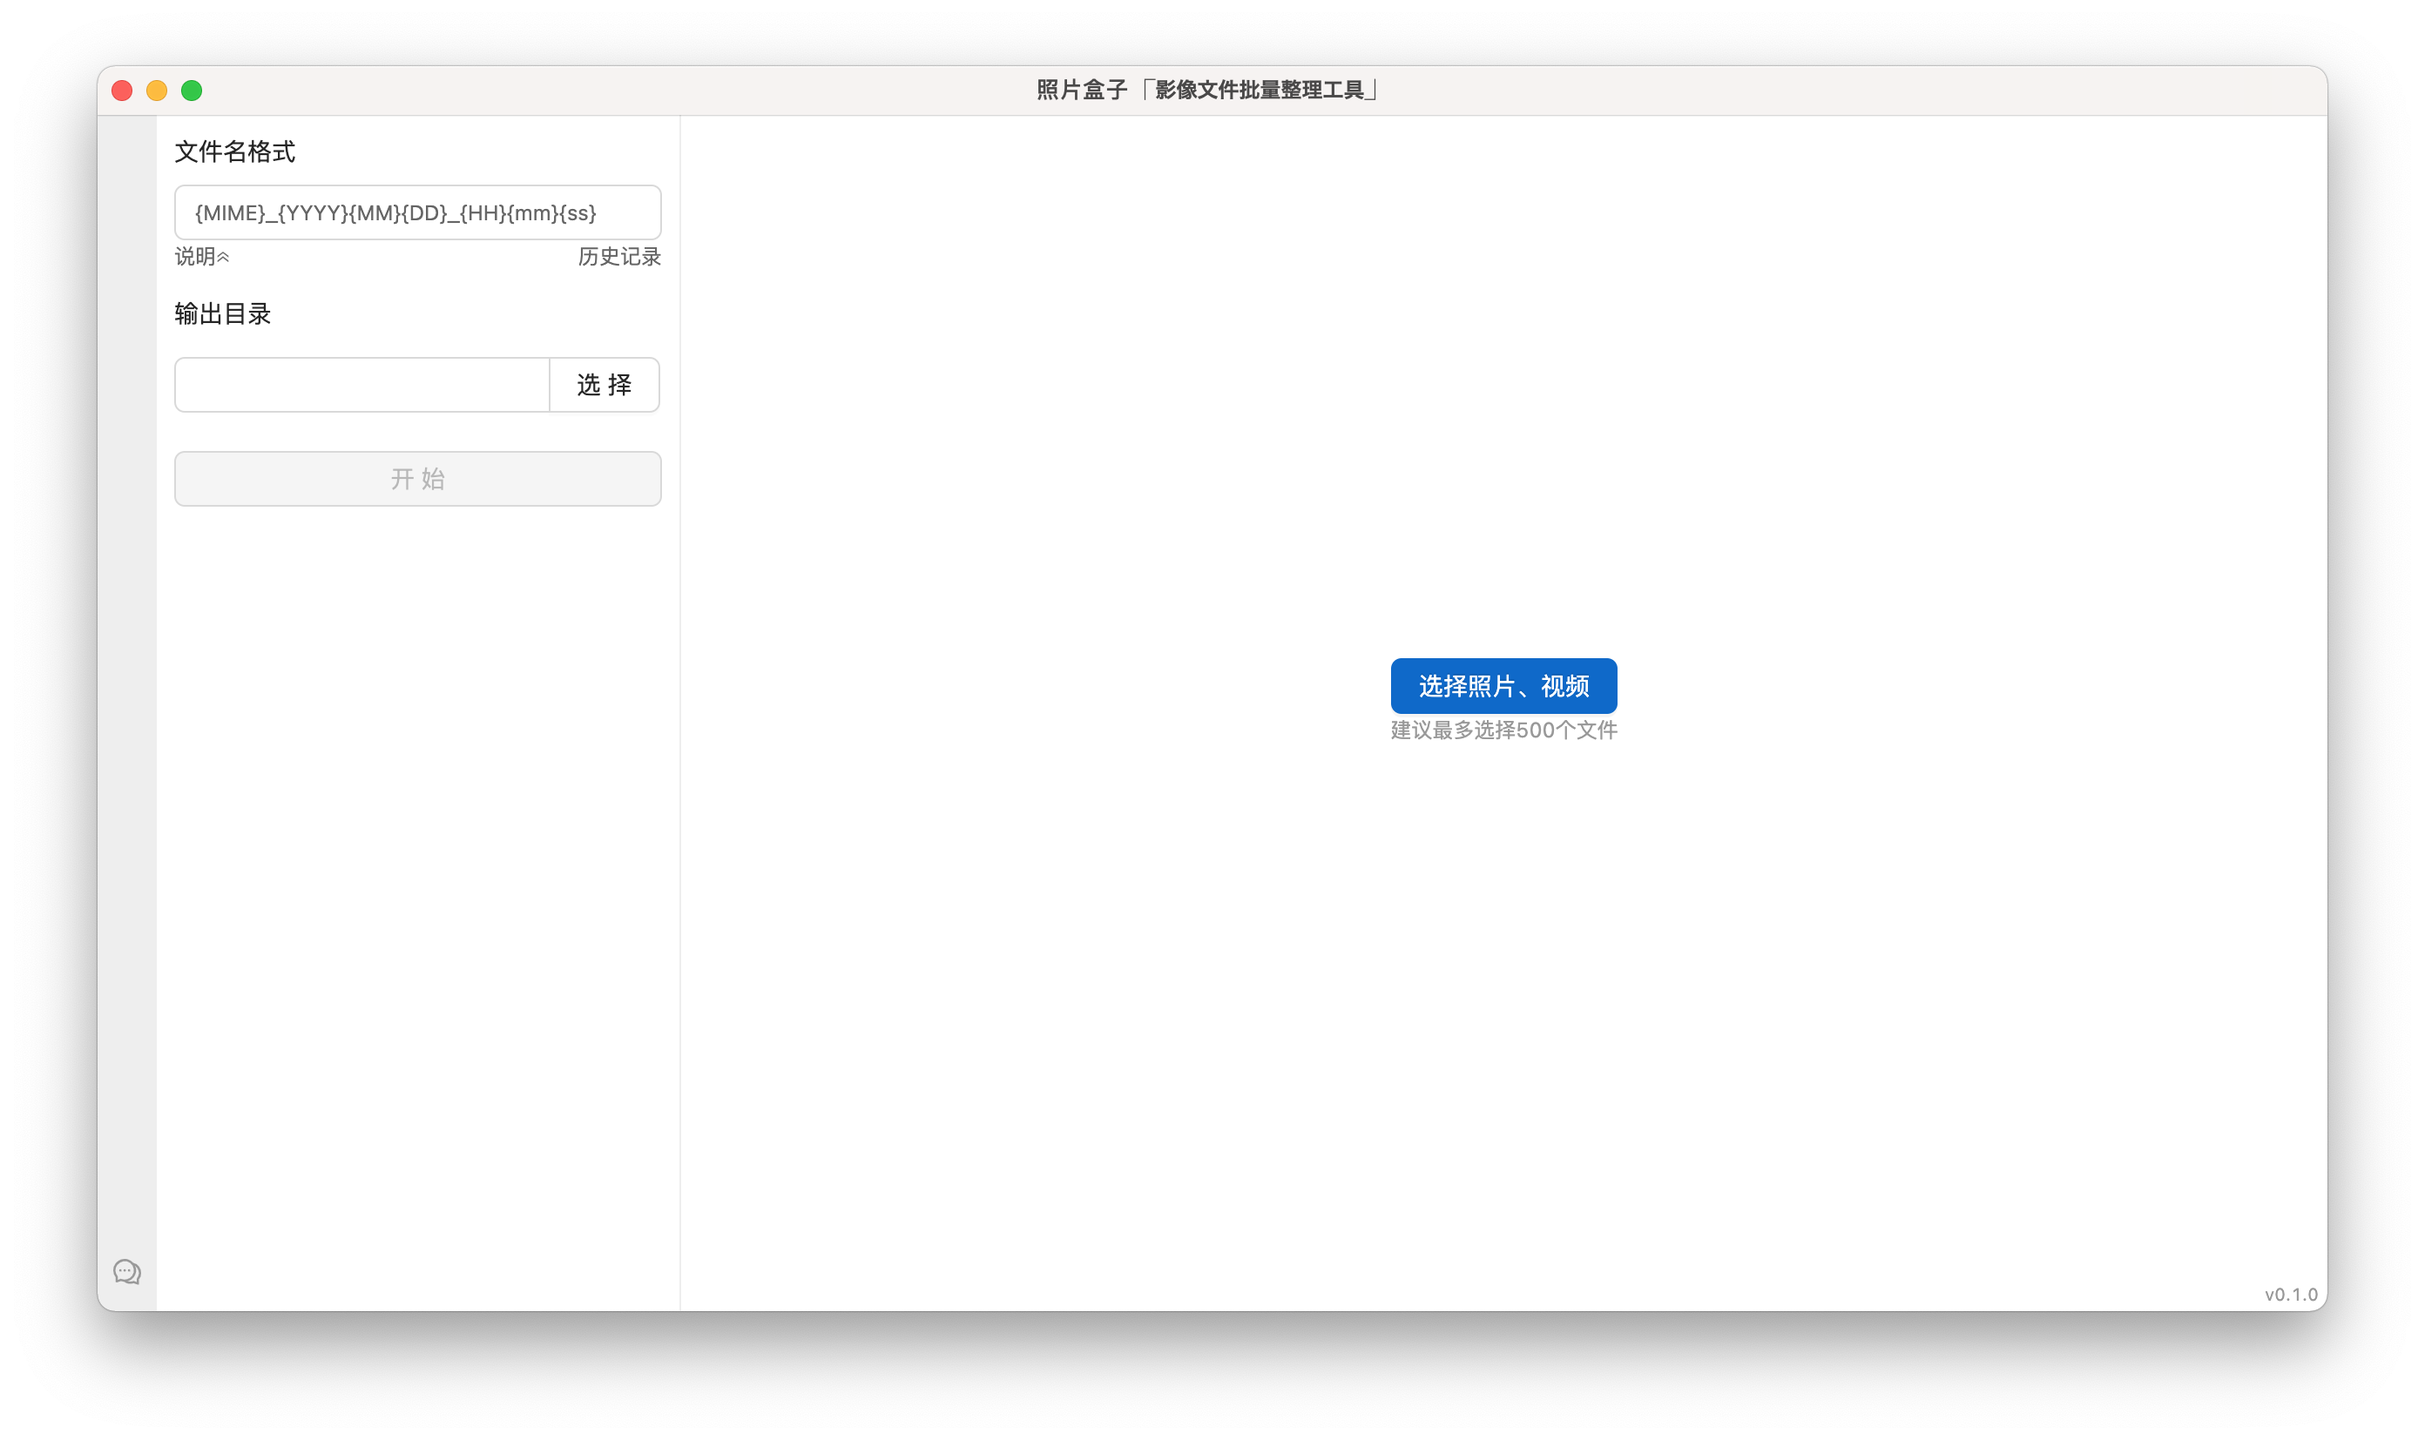
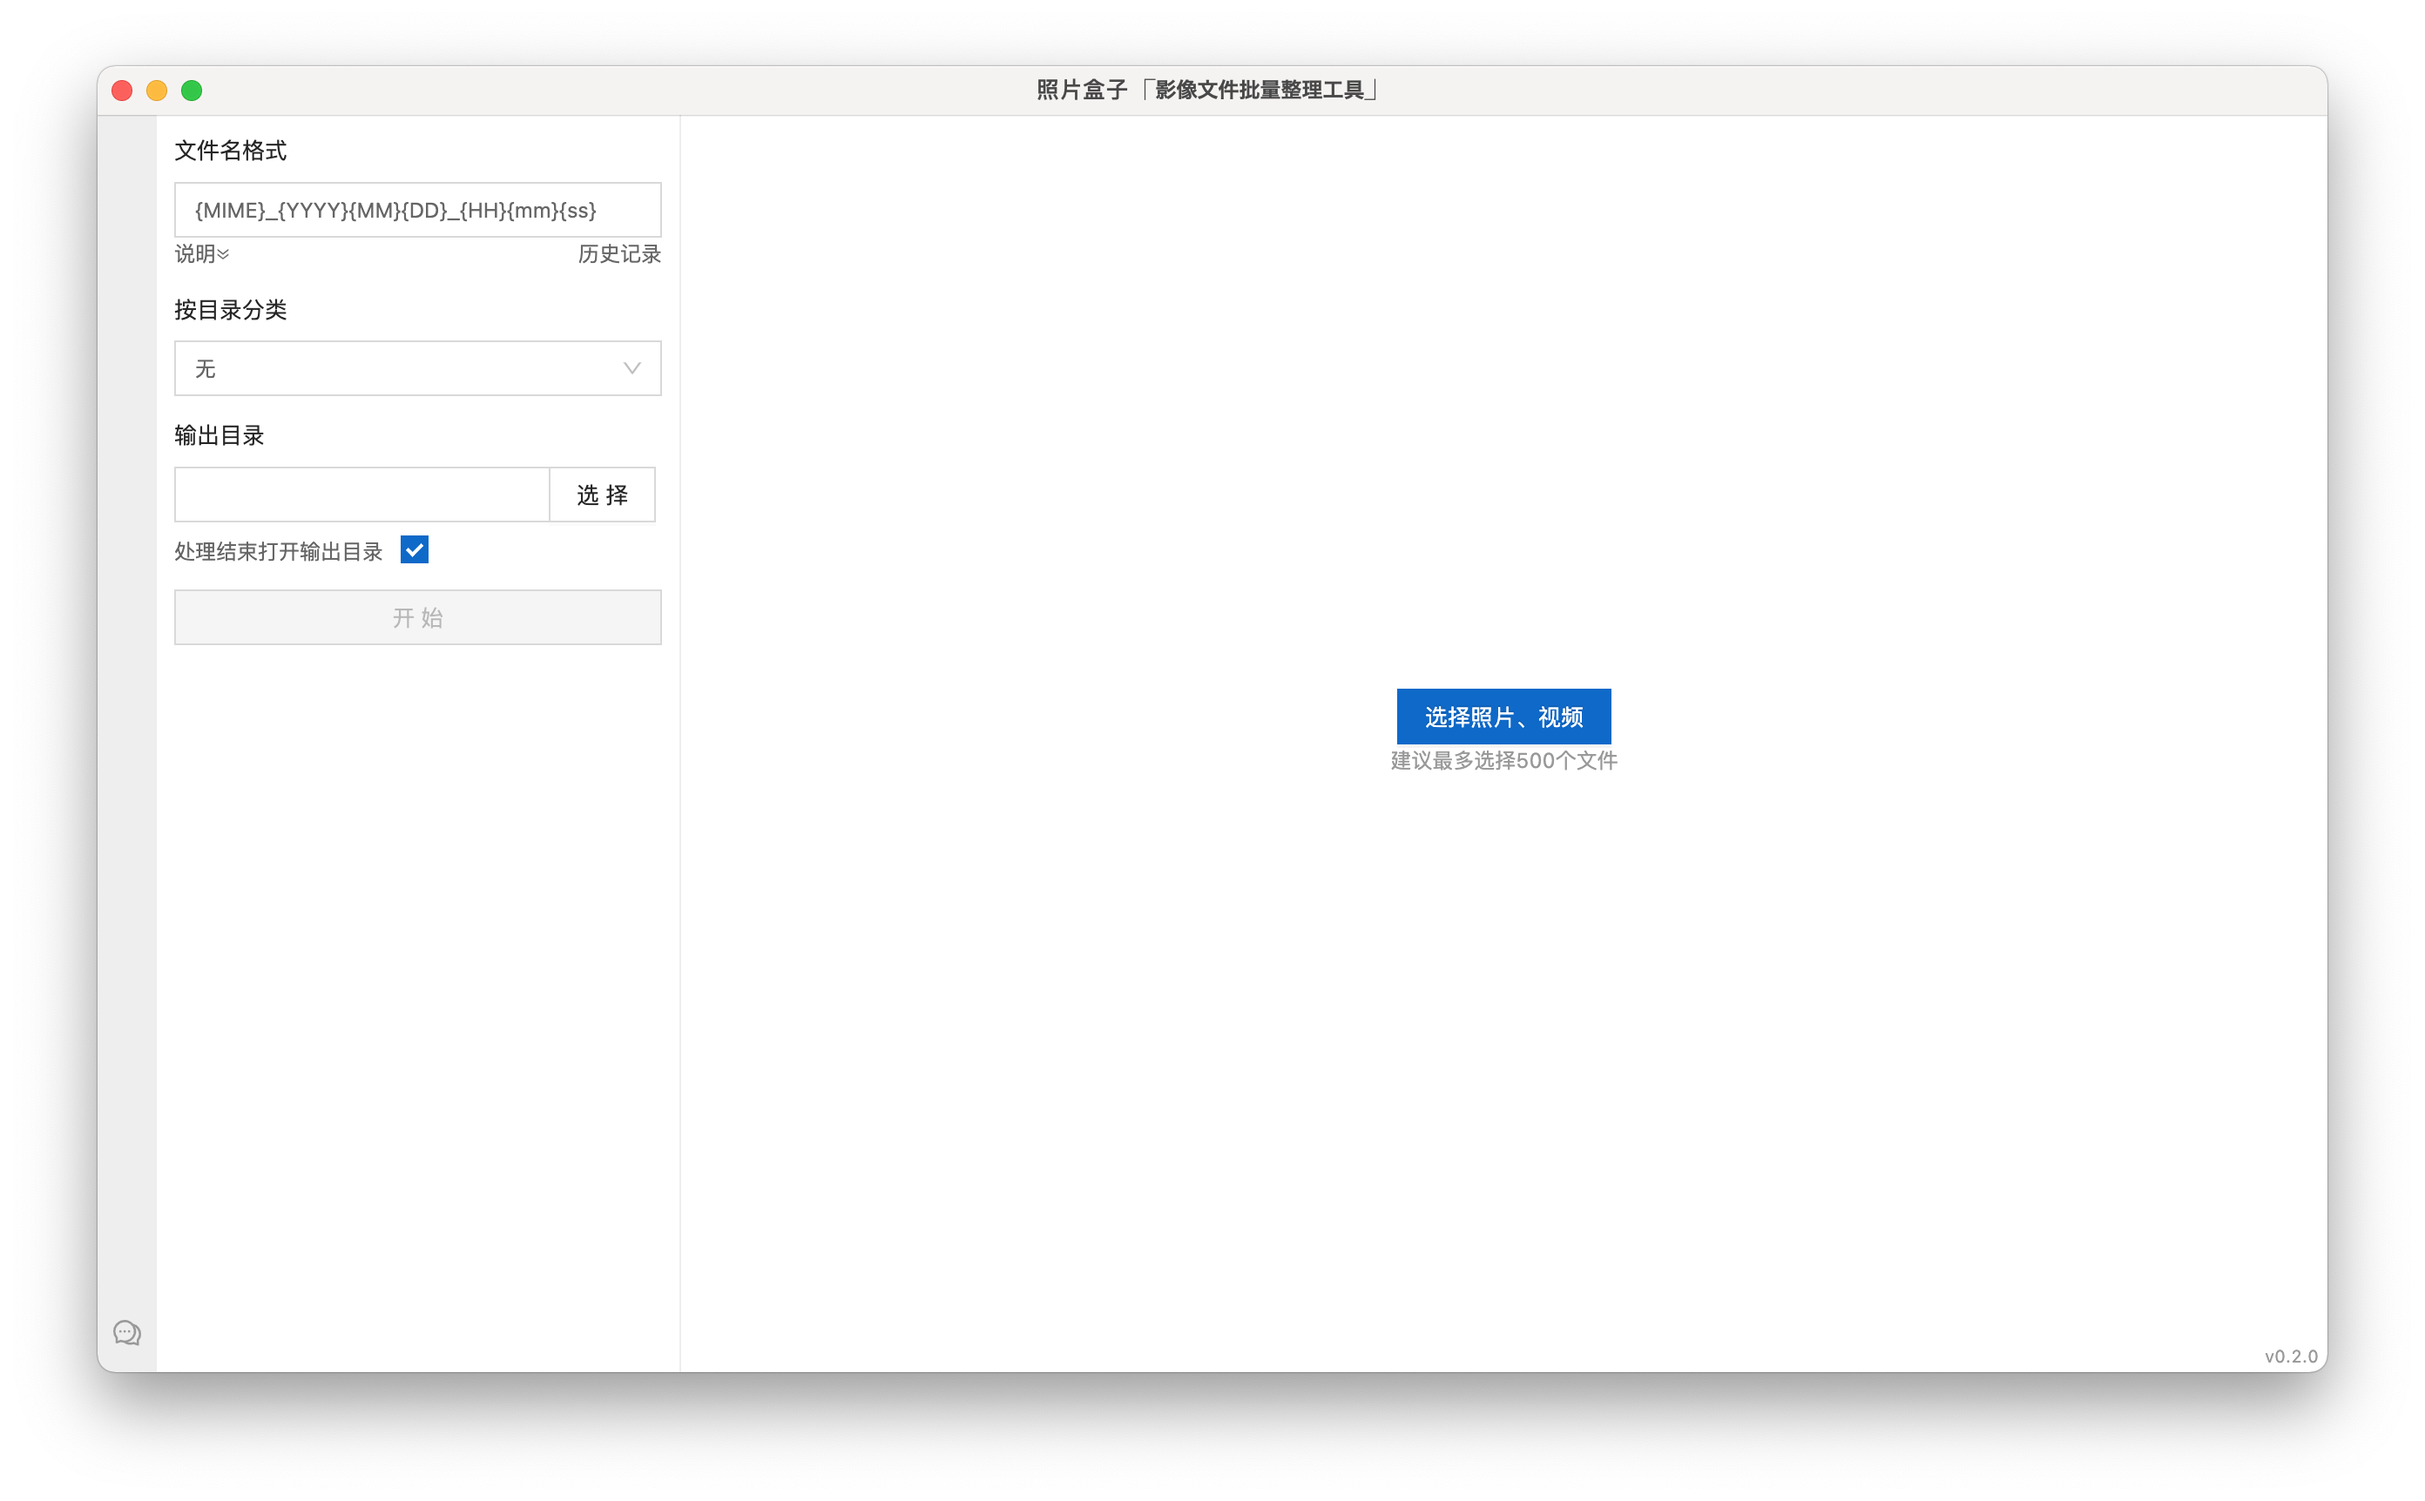
新增0.2截图

diff --git a/README.md b/README.md
@@ -1,21 +1,36 @@
 # 照片盒子
 
-一个用于整理照片的工具，可自定义文件名格式，批量对照片、视频进行重命名。
+当前版本：v0.2.0
+
+一个用于批量整理照片的工具
 
 ![](icon.png)
+
+## 功能清单
+
+- 自定义文件名格式，批量重命名照片、视频
+- 按拍摄日期目录分类，目录支持备注
+- 查看基本的文件Exif信息
+- 图片文件预览
+
 
 ## 软件截图
 
 软件初始界面
 ![](./screenshot/1.png)
 
-查看照片详情及预览
+查看照片详情及预览，支持按日期目录分类
 ![](./screenshot/2.png)
 
 重命名后的文件列表
 ![](./screenshot/3.png)
 
 ## 更新记录
+
+### 0.2.0
+- [新增] 按拍摄日期目录分类，目录支持备注
+- [新增] 缓存当前操作设置项及文件列表，页面刷新可继续操作
+- [新增] 设置项增加处理完打开输出目录选项
 
 ### 0.1.0
 - [新增] 照片、视频批量重命名功能
